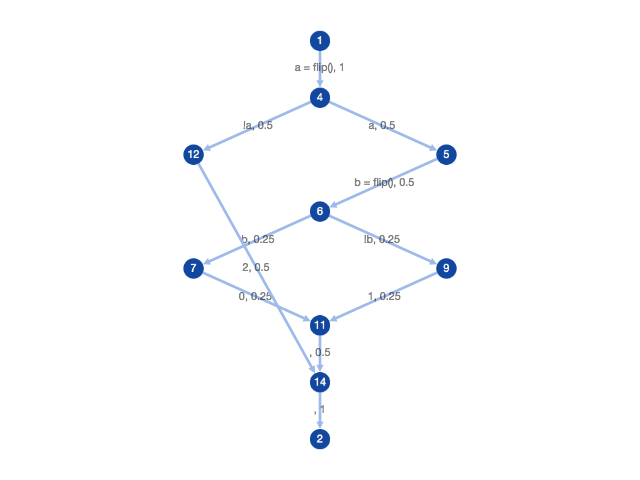
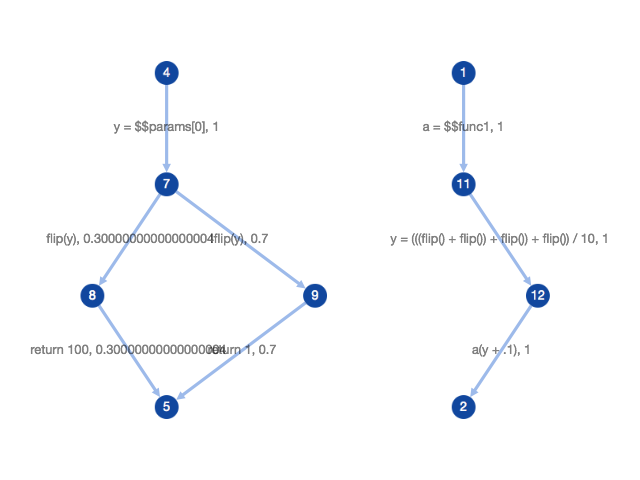
Added function support. Still no recursion.

diff --git a/webPPLCFG.js b/webPPLCFG.js
@@ -1,13 +1,18 @@
 'use strict';
 
-//const readline = require('readline');
+/*
+NOTE: All vars must have unique names no matter scope. No variable shadowing. 
+*/
+
 const fs = require('fs');
 const Esprima = require('esprima');
+const Escodegen = require('escodegen')
 const Styx = require('styx');
 const digraphe = require('digraphe');
 const cytosnap = require('cytosnap');
-
+var AstPreprocessing = require("./node_modules/styx/lib/parser/preprocessing/functionExpressionRewriter");
 var snap = cytosnap();
+var walk = require( 'estree-walker' ).walk;
 
 
 function runWebPPL() {
@@ -22,7 +27,7 @@ function inferProbability(edge) {
     let program = "var m = function() {\n";
 
     edge.code.forEach(function(blockLevel) {
-        edge.code.forEach(function(line) {
+        blockLevel.forEach(function(line) {
             program += "\t" + line + ";\n";
         });
     });
@@ -55,33 +60,43 @@ function inferProbability(edge) {
     return trueProb;
 }
 
-fs.readFile('./tests/if_else.wppl', 'utf8', function(err, code) {
-    if (err) {
-        console.log(err);
-        return;
-    }
-
-    //create the ast
-    let ast = Esprima.parse(code);
-
-    //create the plain control flow graph
-    let controlFlowInfo = Styx.parse(ast);
-
-    //load control flow graph into graph structure
-    var graph = new digraphe();
-    controlFlowInfo.flowGraph.nodes.forEach(function(node) {
-        graph.addNode(node.id.toString(), node);
+function rebuildFunc(funcCFI) {
+    //lets assume the first node is the start
+    digraphe.Visitor.BFS(funcCFI, funcCFI.flowGraph.nodes[0].id.toString(), function (array_of_nodes, depth) {
     });
-    controlFlowInfo.flowGraph.edges.forEach(function(edge) {
-        graph.addEdge(edge.source.id.toString(), edge.target.id.toString());
+}
+
+var defaultFuncs = ['flip']
+function checkForCallExp(ast, rewrittenProgram, controlFlowInfo, incomingProbability, incomingCode, incomingConditions, blockLevel) {
+    walk(ast, {
+        enter: function ( node, parent ) {
+            if (node.type === 'CallExpression' && !defaultFuncs.includes(node.callee.name)) {   
+                let funcCFI = controlFlowInfo.functions.find(x => x.varName === node.callee.name);    
+                let graph = loadGraph(funcCFI.flowGraph);
+                visitCFG(graph,funcCFI.flowGraph.entry.id.toString(), rewrittenProgram, controlFlowInfo, incomingProbability, incomingCode, incomingConditions, blockLevel, node.arguments)                      
+            }
+        },
+        leave: function ( node, parent ) {
+            // some code happens
+        }
     });
+}
+
+function visitCFG(graph, head, rewrittenProgram, controlFlowInfo, initialProbability, incomingCode, incomingConditions, incomingBlockLevel, args) {
 
     //visit the graph
-    let blockLevel = 0;
-    let reVisit = true;
-    while(reVisit) {
+    let reVisit = false;
+    do {
+
+        let blockLevel = incomingBlockLevel;
+
+        let reVisiting = false;
+        if (reVisit) {
+            reVisiting = true;
+        }
+
         reVisit = false;
-        digraphe.Visitor.BFS(graph, '1', function (array_of_nodes, depth) {
+        digraphe.Visitor.BFS(graph, head, function (array_of_nodes, depth) {
             console.log(depth);
             array_of_nodes.forEach(function(node) {  
                 let nodeReady = true; 
@@ -98,25 +113,21 @@ fs.readFile('./tests/if_else.wppl', 'utf8', function(err, code) {
                     console.log(edge.source.id + " --> " + edge.target.id + ": " + edge.label);
                 });
 
-                //if this has been visited before
+                /*if this has been visited before
                 node.object.outgoingEdges.forEach(function(edge) {
                     if (!(typeof edge.probability === 'undefined')) {
                         nodeVisited = true;
                     } 
-                });
+                });*/
 
                 //skip this iteration if not ready or not visited
                 if (!nodeReady || nodeVisited) return;
 
-                let incomingProbability = null;
-                let incomingCode = null;
-                let incomingConditions = null;
+                let incomingProbability = 0;
 
                 //calculate the incoming total prob to this node
                 if (incomingEdges == 0) {
-                    incomingProbability = 1;
-                    incomingCode = [];
-                    incomingConditions = [];
+                    incomingProbability = initialProbability;
                 } else if (incomingEdges == 1) {
                     let incomingEdge0 = node.object.incomingEdges[0]
 
@@ -152,10 +163,31 @@ fs.readFile('./tests/if_else.wppl', 'utf8', function(err, code) {
                         incomingCode.push([]);
                     }
 
-                    code = outgoingEdge0.label;
-                    if (code != '' && outgoingEdge0.data.type == 'VariableDeclarator') {
+                    let code = outgoingEdge0.label;
+                    if (code != '' && (outgoingEdge0.data.type == 'VariableDeclarator' || outgoingEdge0.data.type == 'AssignmentExpression')) {
                         code = "var " + code;
+                        var funcRegex = /\$\$func[0-9]+/;
+                        var match = code.match(funcRegex);
+                        if(match != null) {
+                            let func = match[0];
+                            let funcCFI = controlFlowInfo.functions.find(x => x.name === func);
+                            funcCFI.varName = outgoingEdge0.data.id.name;
+                            let funcAST = rewrittenProgram.body.find(x => x.id.name === func);
+                            let funcCode = Escodegen.generate(funcAST);
+                            funcCode = funcCode.replace(funcRegex, "");
+                            code = code.replace(funcRegex, funcCode);
+                        }
+
+                        var paramRegex = /\$\$params\[([0-9]+)\]/;
+                        match = paramRegex.exec(code);
+                        if(match != null) {
+                            let paramIndex = match[1];
+                            let paramCode = Escodegen.generate(args[paramIndex]);
+                            code = code.replace(paramRegex, paramCode);
+                        }
                     }
+
+                    checkForCallExp(outgoingEdge0.data, rewrittenProgram, controlFlowInfo, incomingProbability, incomingCode, incomingConditions, blockLevel);
 
                     incomingCode[blockLevel].push(code);
                     outgoingEdge0.code = incomingCode;
@@ -177,8 +209,24 @@ fs.readFile('./tests/if_else.wppl', 'utf8', function(err, code) {
                     outgoingEdge1.conditions = incomingConditions.slice();
                     outgoingEdge1.conditions.push(outgoingEdge1.label);
 
-                    outgoingEdge0.probability = inferProbability(outgoingEdge0);
-                    outgoingEdge1.probability = inferProbability(outgoingEdge1);
+                    let inferredProbability0 = inferProbability(outgoingEdge0);
+                    let inferredProbability1 = inferProbability(outgoingEdge1);
+
+                    if (outgoingEdge0.probability && !reVisiting) {
+                        //use addition rule                     
+                        outgoingEdge0.probability = (outgoingEdge0.probability + inferredProbability0) - (outgoingEdge0.probability * inferredProbability0);        
+                    } else {
+                        outgoingEdge0.probability = inferredProbability0 * initialProbability;
+                    }
+                    if (outgoingEdge1.probability && !reVisiting) {
+                        //use addition rule                     
+                        outgoingEdge1.probability = (outgoingEdge1.probability + inferredProbability1) - (outgoingEdge1.probability * inferredProbability1);  
+                    } else {
+                        outgoingEdge1.probability = inferredProbability1 * initialProbability;
+                    }
+
+                    checkForCallExp(outgoingEdge0.data, rewrittenProgram, controlFlowInfo, incomingProbability, incomingCode, incomingConditions, blockLevel);
+                    checkForCallExp(outgoingEdge1.data, rewrittenProgram, controlFlowInfo, incomingProbability, incomingCode, incomingConditions, blockLevel);
 
                 } else {
                     console.log("error");
@@ -187,10 +235,41 @@ fs.readFile('./tests/if_else.wppl', 'utf8', function(err, code) {
 
             });
         });
+    } while(reVisit);
+}
+
+function loadGraph(flowGraph) {
+    //load control flow graph into graph structure
+    let graph = new digraphe();
+    flowGraph.nodes.forEach(function(node) {
+        graph.addNode(node.id.toString(), node);
+    });
+    flowGraph.edges.forEach(function(edge) {
+        graph.addEdge(edge.source.id.toString(), edge.target.id.toString());
+    });
+
+    return graph;
+}
+
+fs.readFile('./tests/function_recursion.wppl', 'utf8', function(err, code) {
+    if (err) {
+        console.log(err);
+        return;
     }
+
+    //create the ast
+    let ast = Esprima.parse(code);
+
+    //create the plain control flow graph
+    let controlFlowInfo = Styx.parse(ast);
+
+    var rewrittenProgram = AstPreprocessing.rewriteFunctionExpressions(ast);
+
+    let graph = loadGraph(controlFlowInfo.flowGraph);
+
+    visitCFG(graph, controlFlowInfo.flowGraph.entry.id.toString(), rewrittenProgram, controlFlowInfo, 1, [], [], 0);
     
     let controlFlowJSON = Styx.exportAsJson(controlFlowInfo);
-
     console.log(controlFlowJSON);
 
     var elements = {nodes: [], edges: []};
@@ -199,6 +278,14 @@ fs.readFile('./tests/if_else.wppl', 'utf8', function(err, code) {
     });
     controlFlowInfo.flowGraph.edges.forEach(function(edge) {
         elements.edges.push({data: { source: edge.source.id.toString(), target: edge.target.id.toString(), name: edge.label + ", " + edge.probability }});
+    });
+    controlFlowInfo.functions.forEach(function(func) {
+        func.flowGraph.nodes.forEach(function(node) {
+            elements.nodes.push({data: { id: node.id.toString() }})
+        });
+        func.flowGraph.edges.forEach(function(edge) {
+            elements.edges.push({data: { source: edge.source.id.toString(), target: edge.target.id.toString(), name: edge.label + ", " + edge.probability }});
+        });
     });
 
     snap.start().then(function(){
@@ -211,28 +298,27 @@ fs.readFile('./tests/if_else.wppl', 'utf8', function(err, code) {
             style: [
                 {
                 selector: 'node',
-                style: {
-                    'content': 'data(id)',
-                    'text-valign': 'center',
-                    'text-halign': 'middle',
-                    'background-color': '#11479e',
-                    'color' : 'white',
-                }
-                },
-            
+                    style: {
+                        'content': 'data(id)',
+                        'text-valign': 'center',
+                        'text-halign': 'middle',
+                        'background-color': '#11479e',
+                        'color' : 'white',
+                    }
+                },        
                 {
-                selector: 'edge',
-                style: {
-                    'content': 'data(name)',
-                    'text-opacity': 0.5,
-                    'text-valign': 'bottom',
-                    'text-halign': 'right',
-                    'curve-style': 'bezier',
-                    'width': 4,
-                    'target-arrow-shape': 'triangle',
-                    'line-color': '#9dbaea',
-                    'target-arrow-color': '#9dbaea'
-                }
+                    selector: 'edge',
+                    style: {
+                        'content': 'data(name)',
+                        'text-opacity': 0.5,
+                        'text-valign': 'bottom',
+                        'text-halign': 'right',
+                        'curve-style': 'bezier',
+                        'width': 4,
+                        'target-arrow-shape': 'triangle',
+                        'line-color': '#9dbaea',
+                        'target-arrow-color': '#9dbaea'
+                    }
                 }
             ],
             
